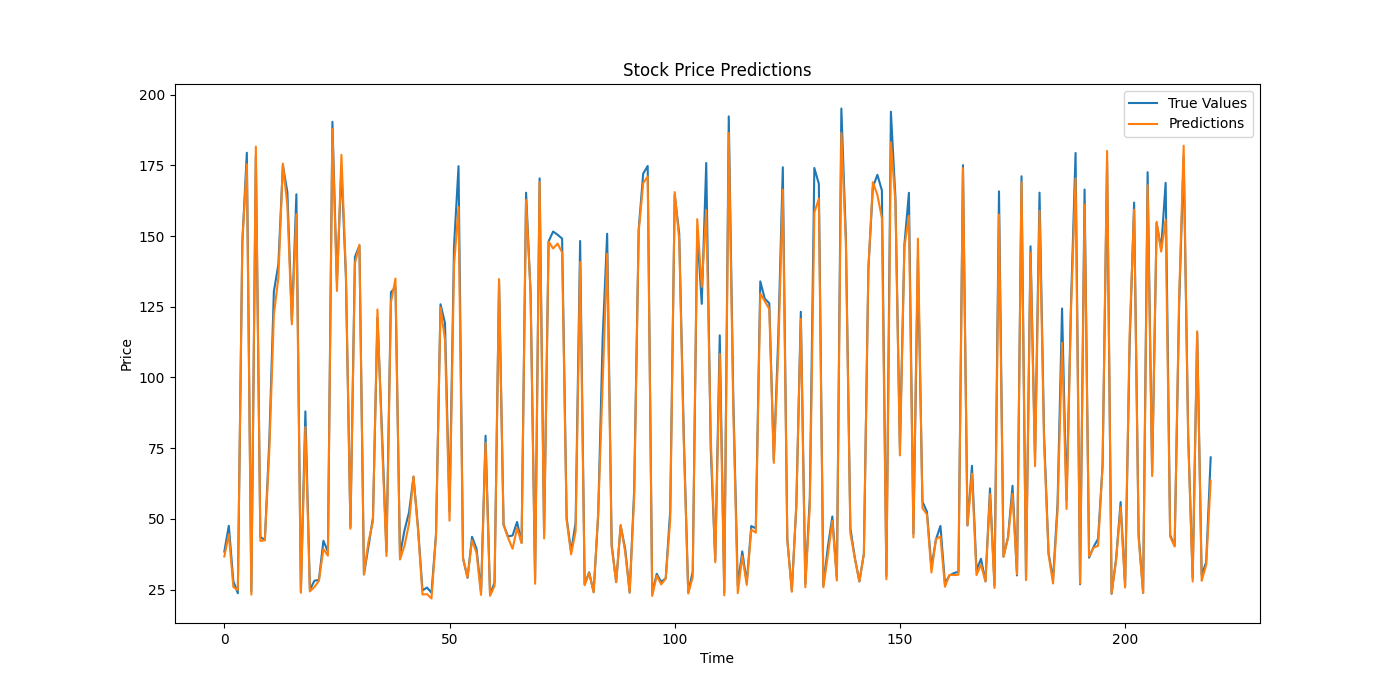
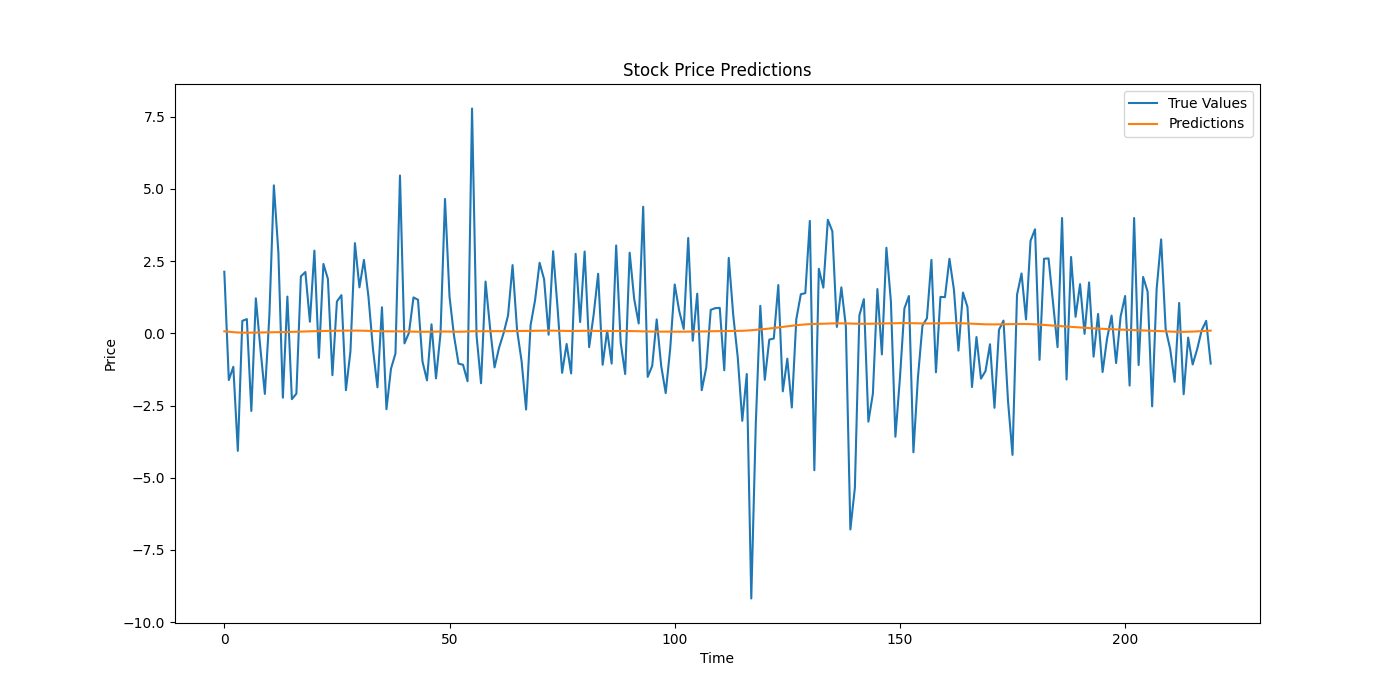
Sorted by time and changed to price change

diff --git a/marketPredictor.py b/marketPredictor.py
@@ -12,11 +12,16 @@ import matplotlib.pyplot as plt
 # Step 1: Fetch stock data
 def fetch_stock_data(ticker, start_date, end_date):
     data = yf.download(ticker, start=start_date, end=end_date)
+    data['PriceChange'] = calculate_price_change(data['Close'])
     data['RSI'] = calculate_rsi(data['Close'])
     data['MACD'], data['Signal'] = calculate_macd(data['Close'])
+    data = data.sort_index()  # Sort by date
     return data
 
 # Step 2: Technical indicators (RSI and MACD)
+def calculate_price_change(series):
+    return series.diff().dropna()
+
 def calculate_rsi(series, period=14):
     delta = series.diff()
     gain = (delta.where(delta > 0, 0)).rolling(window=period).mean()
@@ -59,7 +64,7 @@ def build_lstm_model(input_shape):
     return model
 
 # Step 5: Train and evaluate model
-def evaluate_model(model, X_test, y_test, scaler):
+def evaluate_model(model, X_test, y_test, scaler, future_steps=0):
     predictions = model.predict(X_test)
     predictions_rescaled = scaler.inverse_transform(
         np.hstack((np.zeros((predictions.shape[0], scaler.min_.shape[0] - 1)), predictions))
@@ -73,7 +78,31 @@ def evaluate_model(model, X_test, y_test, scaler):
     r2 = r2_score(y_test_rescaled, predictions_rescaled)
     
     print(f"MAE: {mae}, RMSE: {rmse}, R^2: {r2}")
-    return predictions_rescaled, y_test_rescaled
+    
+    future_predictions = None
+    if future_steps > 0:
+        future_predictions = predict_future(model, X_test[-1], future_steps, scaler)
+    
+    return predictions_rescaled, y_test_rescaled, future_predictions
+
+# Predict future stock prices
+def predict_future(model, last_data_point, future_steps, scaler):
+    future_predictions = []
+    current_data = last_data_point
+    
+    for _ in range(future_steps):
+        prediction = model.predict(current_data[np.newaxis, :, :])
+        future_predictions.append(prediction[0, 0])
+        
+        # Update current_data to include the new prediction
+        current_data = np.roll(current_data, -1, axis=0)
+        current_data[-1, -1] = prediction
+    
+    future_predictions_rescaled = scaler.inverse_transform(
+        np.hstack((np.zeros((len(future_predictions), scaler.min_.shape[0] - 1)), np.array(future_predictions).reshape(-1, 1)))
+    )[:, -1]
+    
+    return future_predictions_rescaled
 
 # Step 6: Plot results
 def plot_predictions(y_true, y_pred, filename='predictions.png'):
@@ -94,18 +123,32 @@ if __name__ == '__main__':
     start_date = '2015-01-01'
     end_date = '2023-12-31'
     data = fetch_stock_data(ticker, start_date, end_date)
+    
+    # Verify sorting
+    print(data.head())
+    print(data.tail())
 
     feature_columns = ['Close', 'Volume', 'RSI', 'MACD', 'Signal']
-    target_column = 'Close'
+    target_column = 'PriceChange'
     
     X, y, scaler = preprocess_data(data, feature_columns, target_column)
-    X_train, X_temp, y_train, y_temp = train_test_split(X, y, test_size=0.2, random_state=42)
-    X_val, X_test, y_val, y_test = train_test_split(X_temp, y_temp, test_size=0.5, random_state=42)
+    
+    # Split data while maintaining chronological order
+    train_size = int(len(X) * 0.8)
+    val_size = int(len(X) * 0.1)
+    
+    X_train, y_train = X[:train_size], y[:train_size]
+    X_val, y_val = X[train_size:train_size + val_size], y[train_size:train_size + val_size]
+    X_test, y_test = X[train_size + val_size:], y[train_size + val_size:]
 
     # Build and train model
     model = build_lstm_model((X_train.shape[1], X_train.shape[2]))
     model.fit(X_train, y_train, validation_data=(X_val, y_val), epochs=20, batch_size=32)
 
     # Evaluate and plot results
-    predictions, y_test_rescaled = evaluate_model(model, X_test, y_test, scaler)
+    future_steps = 30  # Number of future days to predict
+    predictions, y_test_rescaled, future_predictions = evaluate_model(model, X_test, y_test, scaler, future_steps)
     plot_predictions(y_test_rescaled, predictions, 'predictions.png')
+    
+    if future_predictions is not None:
+        print("Future Predictions:", future_predictions)
